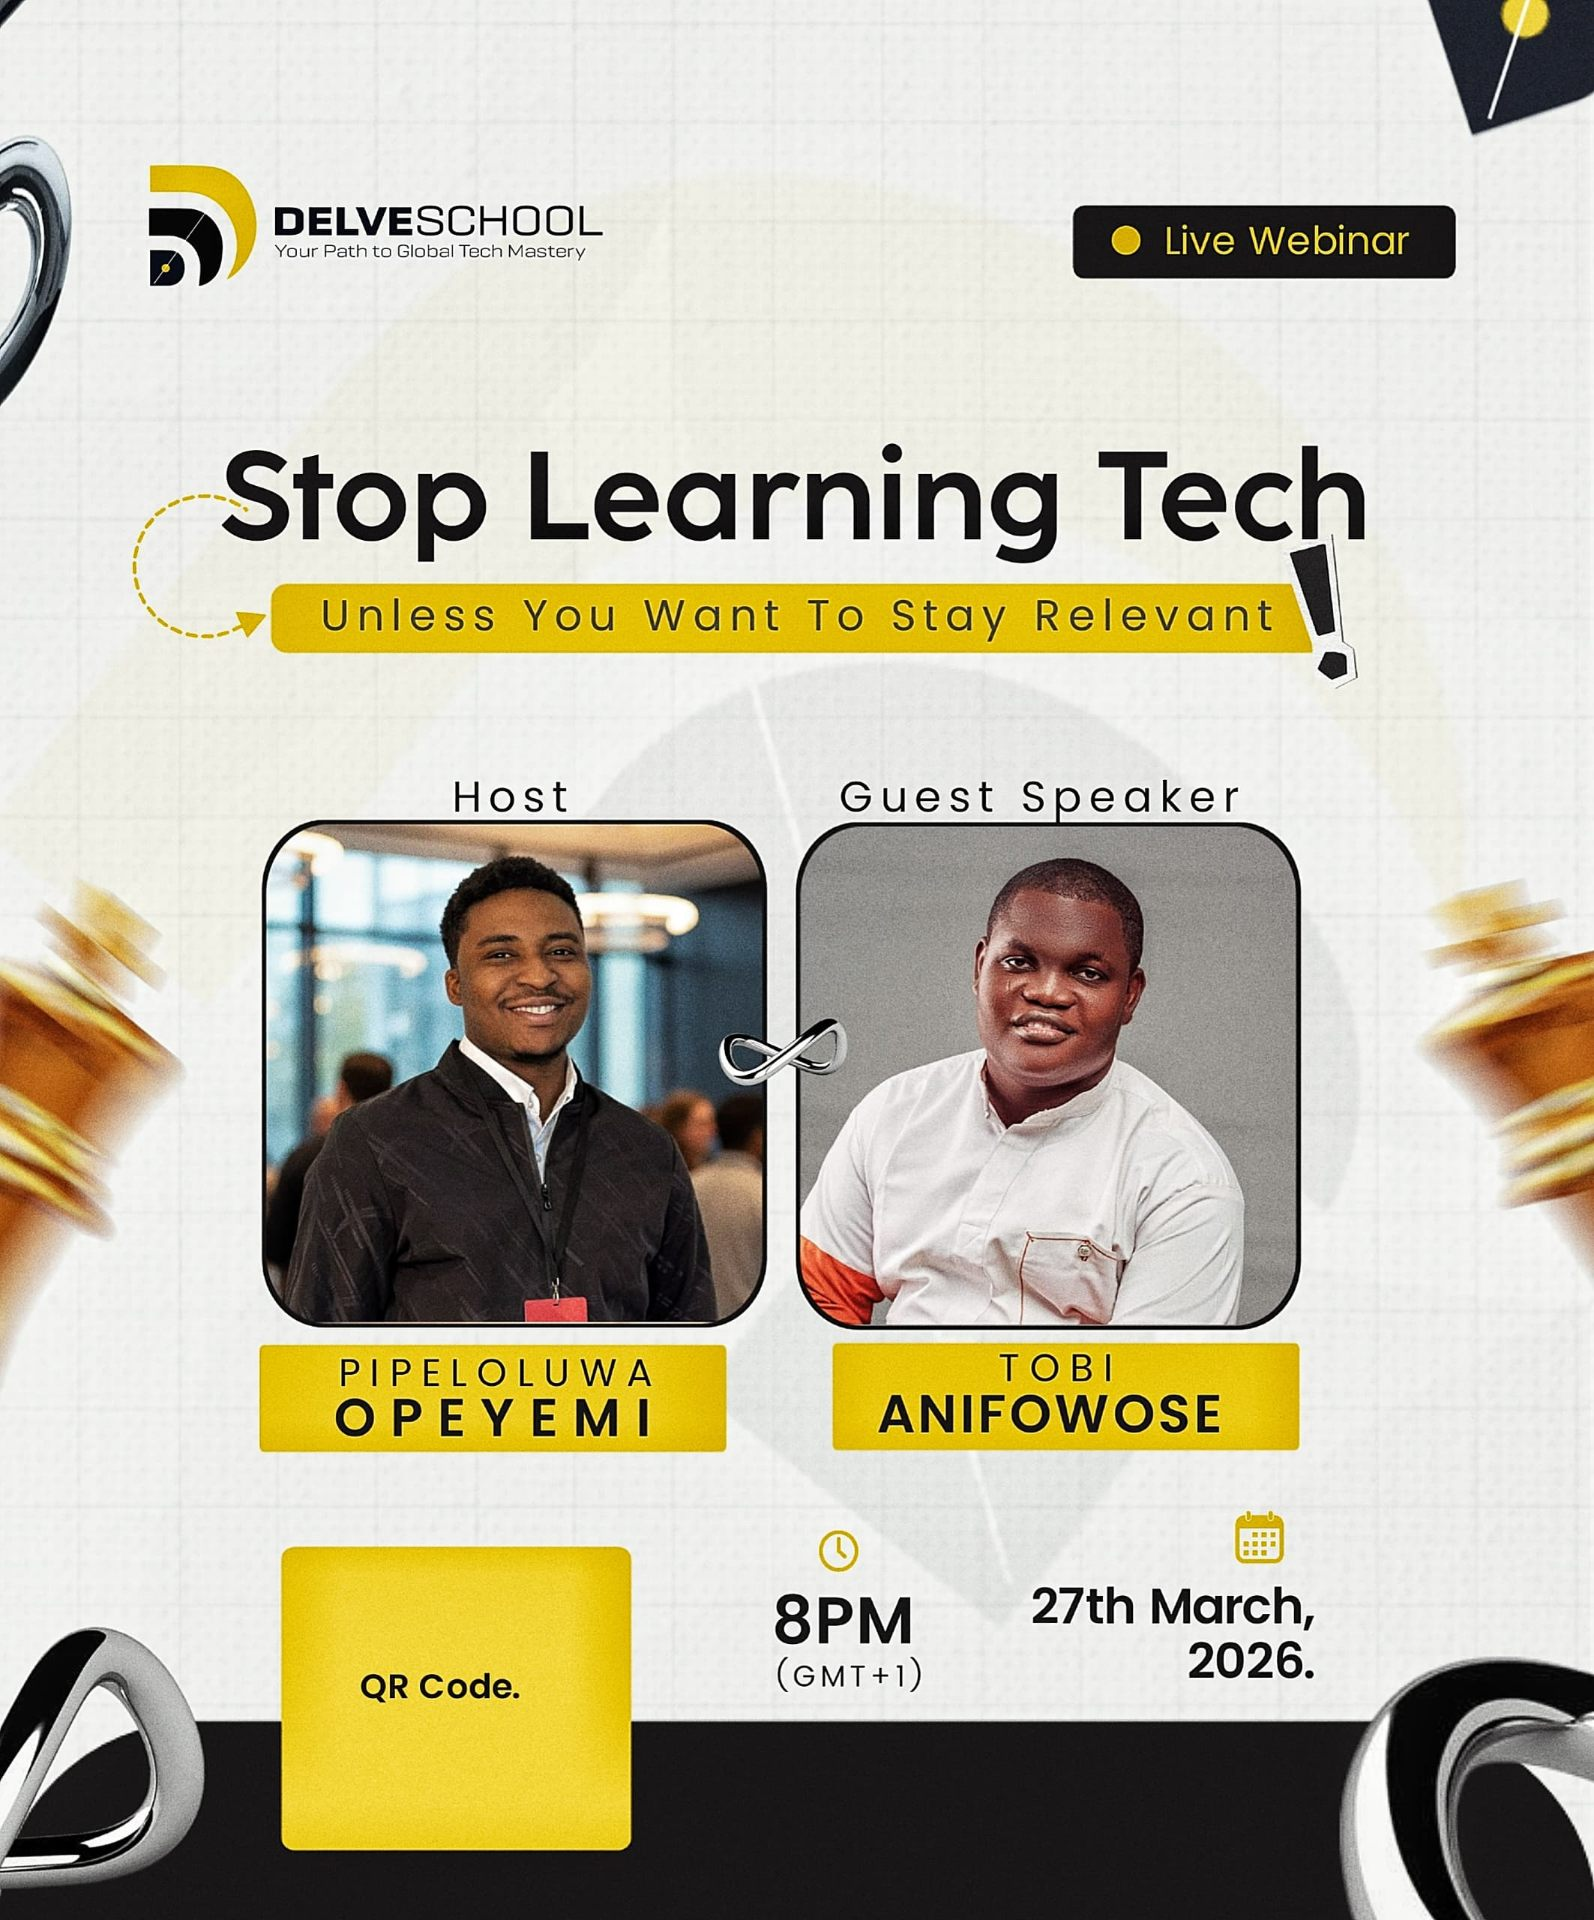
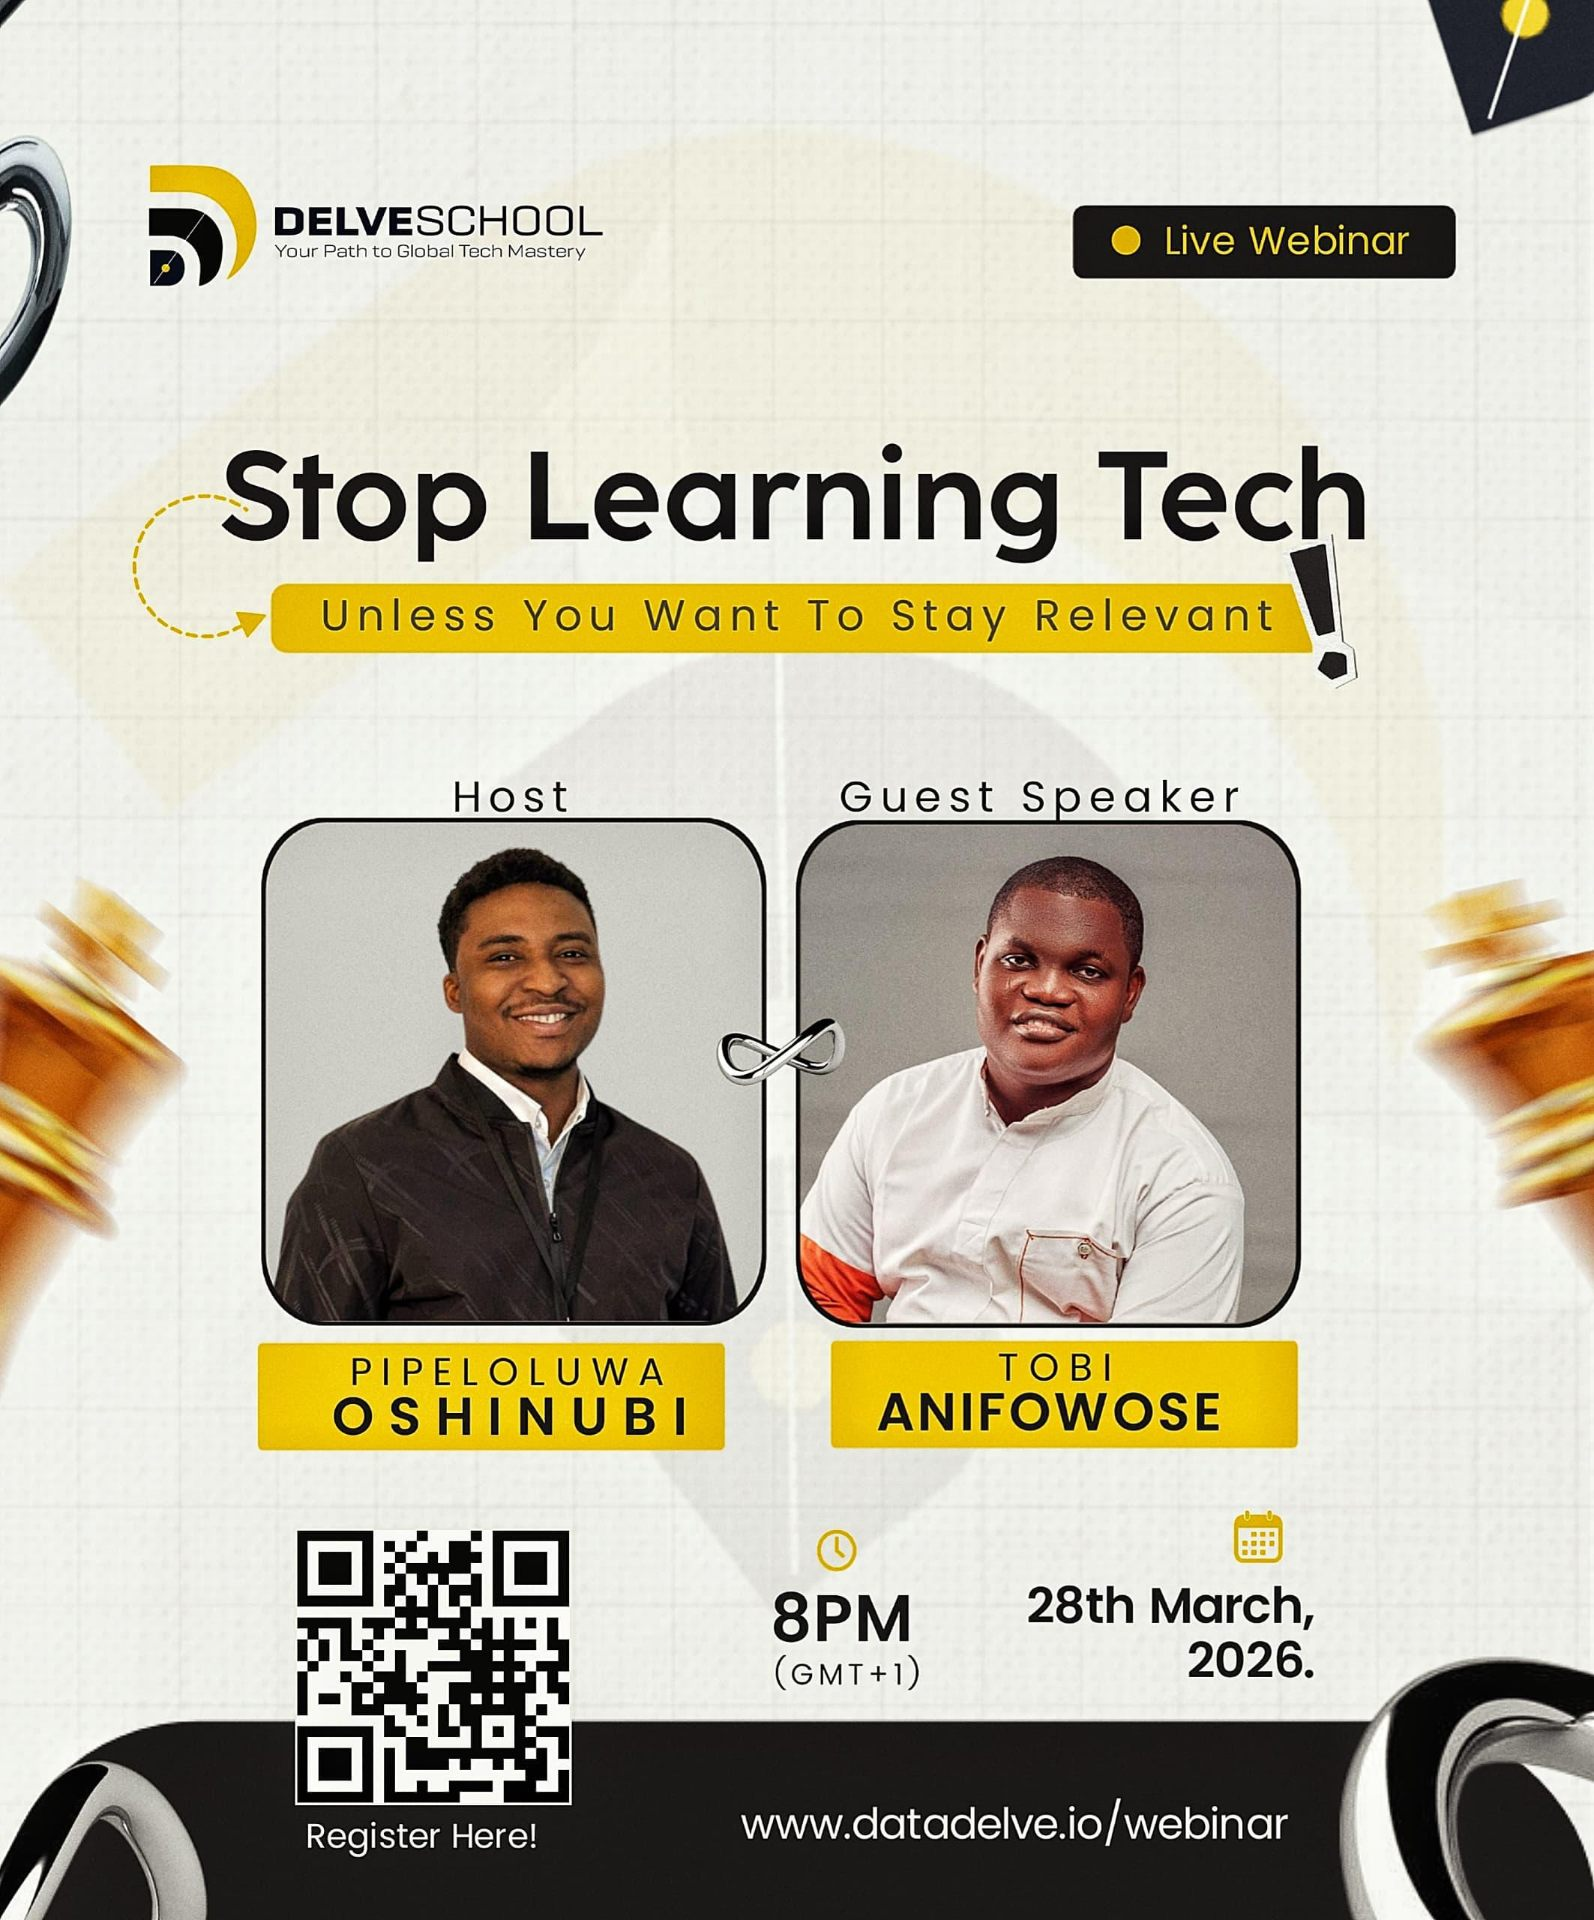
Changes

diff --git a/supabase/functions/send-webinar-confirmation/index.ts b/supabase/functions/send-webinar-confirmation/index.ts
@@ -40,7 +40,7 @@ Deno.serve(async (req) => {
             <div style="background: #FFFFFF; border-radius: 12px; padding: 24px; border: 1px solid #E8E0D4; margin-bottom: 24px;">
               <h2 style="font-size: 20px; color: #1A1A1A; margin: 0 0 16px;">Stop Learning Tech — Unless You Want To Stay Relevant</h2>
               <div style="color: #5A5A5A; font-size: 14px; line-height: 1.8;">
-                <p style="margin: 0;">📅 <strong>Date:</strong> 27th March, 2026</p>
+                <p style="margin: 0;">📅 <strong>Date:</strong> 28th March, 2026</p>
                 <p style="margin: 0;">🕗 <strong>Time:</strong> 8:00 PM (GMT+1)</p>
                 <p style="margin: 0;">📍 <strong>Location:</strong> Online — Free</p>
               </div>
@@ -48,12 +48,14 @@ Deno.serve(async (req) => {
 
             <div style="background: #FFFFFF; border-radius: 12px; padding: 24px; border: 1px solid #E8E0D4; margin-bottom: 24px;">
               <h3 style="font-size: 16px; color: #D4A017; margin: 0 0 12px;">Your Speakers</h3>
-              <p style="color: #1A1A1A; font-size: 14px; margin: 0 0 4px;"><strong>Pipeloluwa Opeyemi</strong> — Data Analytics Expert (Host)</p>
+              <p style="color: #1A1A1A; font-size: 14px; margin: 0 0 4px;"><strong>Pipeloluwa Oshinubi</strong> — Data Analyst & Co-Founder, DelveSchool (Host)</p>
               <p style="color: #1A1A1A; font-size: 14px; margin: 0;"><strong>Tobi Anifowose</strong> — Senior Software Engineer (Guest)</p>
             </div>
 
             <div style="text-align: center; padding: 20px 0;">
-              <p style="color: #5A5A5A; font-size: 14px; margin: 0;">We'll send you a reminder before the event.</p>
+              <p style="color: #5A5A5A; font-size: 14px; margin: 0 0 12px;">Join the webinar here:</p>
+              <a href="https://www.datadelve.io/webinar" style="display: inline-block; background: #D4A017; color: #FFFFFF; padding: 12px 24px; border-radius: 8px; text-decoration: none; font-weight: 600;">Join Webinar</a>
+              <p style="color: #5A5A5A; font-size: 14px; margin: 12px 0 0;">We'll send you a reminder before the event.</p>
               <p style="color: #5A5A5A; font-size: 14px; margin: 8px 0 0;">See you there! 👋</p>
             </div>
 
@@ -92,7 +94,7 @@ Deno.serve(async (req) => {
             <p style="color: #5A5A5A; font-size: 16px;"><strong>Email:</strong> ${email}</p>
             <p style="color: #5A5A5A; font-size: 14px;"><strong>Registered at:</strong> ${new Date().toLocaleString()}</p>
             <hr style="border: 1px solid #E8E0D4; margin: 20px 0;" />
-            <p style="color: #999; font-size: 12px;">Stop Learning Tech Webinar — 27th March, 2026</p>
+            <p style="color: #999; font-size: 12px;">Stop Learning Tech Webinar — 28th March, 2026</p>
           </div>
         `,
       }),

diff --git a/src/pages/Webinar.tsx b/src/pages/Webinar.tsx
@@ -93,7 +93,7 @@ const Webinar = () => {
             {/* Event details pills */}
             <div className="flex flex-wrap justify-center gap-4 mb-12">
               {[
-                { icon: Calendar, label: "27th March, 2026" },
+                { icon: Calendar, label: "28th March, 2026" },
                 { icon: Clock, label: "8:00 PM (GMT+1)" },
                 { icon: MapPin, label: "Online — Free" },
               ].map((item, i) => (
@@ -170,10 +170,10 @@ const Webinar = () => {
                 <Users className="w-3 h-3" />
                 Host
               </div>
-              <h3 className="font-display text-2xl font-bold mb-1" style={{ color: theme.text }}>Pipeloluwa Opeyemi</h3>
-              <p className="font-medium text-sm mb-4" style={{ color: theme.gold }}>Data Analytics Expert</p>
+              <h3 className="font-display text-2xl font-bold mb-1" style={{ color: theme.text }}>Pipeloluwa Oshinubi</h3>
+              <p className="font-medium text-sm mb-4" style={{ color: theme.gold }}>Data Analyst & Co-Founder, DelveSchool</p>
               <p className="text-sm leading-relaxed" style={{ color: theme.textMuted }}>
-                Passionate about making tech accessible to everyone. Pipeloluwa brings clarity and energy to every session, guiding learners through their tech journey with practical insights.
+                A data analyst with over 5 years of experience turning raw data into actionable insights. Pipeloluwa is the co-founder of DelveSchool, passionate about making tech education accessible to everyone. He brings clarity and energy to every session, guiding learners through their tech journey with practical, real-world insights.
               </p>
             </div>
 
@@ -250,7 +250,7 @@ const Webinar = () => {
               {isLoading ? "Registering..." : "Register Free"}
             </button>
           </form>
-          <p className="text-xs mt-4" style={{ color: theme.textMuted }}>Free · Online · 27th March 2026 · 8PM GMT+1</p>
+          <p className="text-xs mt-4" style={{ color: theme.textMuted }}>Free · Online · 28th March 2026 · 8PM GMT+1</p>
         </div>
       </section>
     </div>
